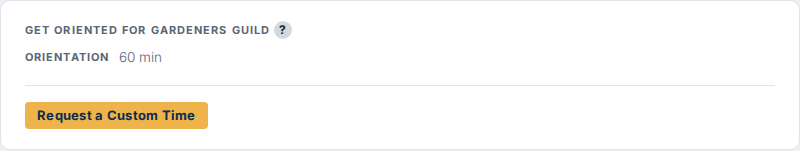
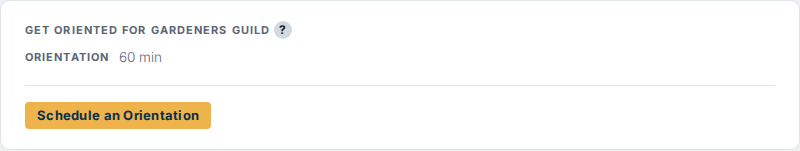
fix(guilds): the orientation button reads Schedule an Orientation

Changed region(s): [[0.0312, 0.6887, 0.2812, 0.8477]]

diff --git a/templates/hub/partials/guild_orientation.html b/templates/hub/partials/guild_orientation.html
@@ -199,7 +199,7 @@ Member-facing orientation section on the guild page, grouped by orientation type
     {% if user.is_authenticated %}
     <div x-data="{ showCustom: false }" style="margin-top:1rem; padding-top:1rem; border-top:1px solid var(--hub-border);" data-help-key="orientation.request-custom-time">
       <button type="button" class="hub-btn hub-btn--sm {% if orientation_has_posted_times %}hub-btn--ghost{% else %}hub-btn--primary{% endif %}" x-show="!showCustom" @click="showCustom = true">
-        Request a Custom Time
+        Schedule an Orientation
       </button>
       <div x-show="showCustom" x-cloak style="max-width:420px;">
         <p class="hub-text-muted" style="margin:0 0 0.75rem; font-size:0.85rem;">Pick an orientation, propose your own time, and the guild lead will confirm it.</p>
@@ -218,7 +218,7 @@ Member-facing orientation section on the guild page, grouped by orientation type
     </div>
     {% else %}
     <div style="margin-top:1rem; padding-top:1rem; border-top:1px solid var(--hub-border);">
-      <a href="{% url 'account_login' %}?next={{ request.path|urlencode }}" class="hub-btn hub-btn--sm {% if orientation_has_posted_times %}hub-btn--ghost{% else %}hub-btn--primary{% endif %}">Log in to request a custom time</a>
+      <a href="{% url 'account_login' %}?next={{ request.path|urlencode }}" class="hub-btn hub-btn--sm {% if orientation_has_posted_times %}hub-btn--ghost{% else %}hub-btn--primary{% endif %}">Log in to schedule an orientation</a>
     </div>
     {% endif %}
     {% endif %}

diff --git a/membership/help_content.py b/membership/help_content.py
@@ -372,7 +372,7 @@ Some guilds post open windows of orienter time as well as fixed slots. Under **P
 
 ## Request a Custom Time {#orientation-request-custom-time}
 
-If none of the posted times work, or the guild hasn't posted any, click **Request a Custom Time** below the orientations. Propose a date and time, add a note if it helps, and click **Send request**. The same rule applies: a guild lead has to confirm it before it's real.
+If none of the posted times work, or the guild hasn't posted any, click **Schedule an Orientation** below the orientations. Propose a date and time, add a note if it helps, and click **Send request**. The same rule applies: a guild lead has to confirm it before it's real.
 
 Not every guild offers this — the button only appears when the guild allows custom requests.
 

diff --git a/tests/hub/guild_orientation_tab_spec.py b/tests/hub/guild_orientation_tab_spec.py
@@ -174,7 +174,7 @@ def describe_custom_request_button():
         client.login(username="cr1", password="pass")
         content = client.get(reverse("hub_guild_detail", args=[guild.slug])).content.decode()
         button = _custom_button(content)
-        assert "Request a Custom Time" in button
+        assert "Schedule an Orientation" in button
         assert "hub-btn--primary" in button
         assert "posted times" not in _section(content)
 
